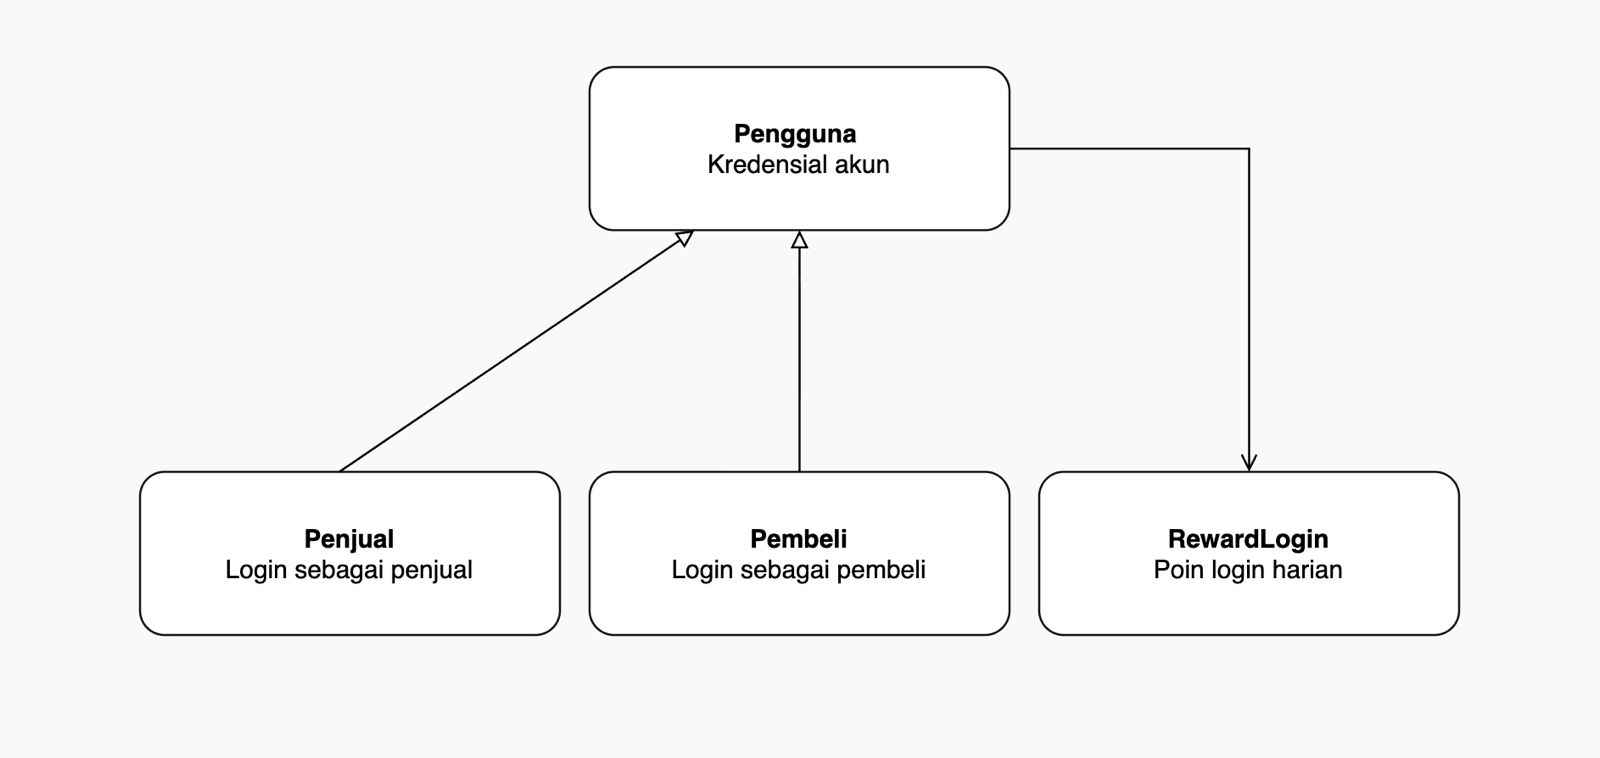
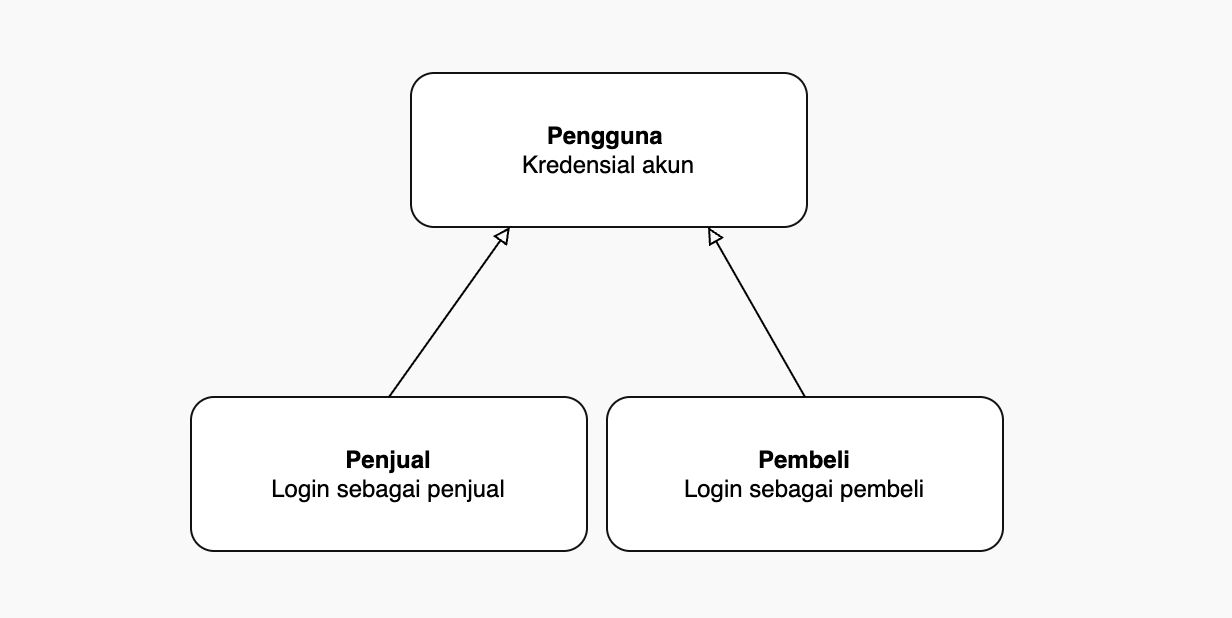
docs: update 4.2.7, 4.2.8, & 4.2.9

diff --git a/docs/M4/K02_G06_CD.md b/docs/M4/K02_G06_CD.md
@@ -64,7 +64,7 @@ Tabel 2.1. Daftar Kebutuhan Fungsional
 | *KF03* | *R04* | *Ketika pengguna memasukkan ketentuan penyaringan yang diinginkan, perangkat lunak akan menyaring listing yang ada sesuai ketentuan tersebut, lalu menampilkan hasil penyaringan kepada pengguna.* |
 | *KF04* | *R05* | *Saat pengguna melanjutkan ke tahap pembayaran, perangkat lunak akan menampilkan halaman pembayaran berisi kode QRIS dummy sebagai simulasi metode pembayaran.* |
 | *KF05* | *R07* | *Ketika pengguna melakukan perubahan pada listing (stok, harga, deskripsi) melalui fitur edit dan menyimpannya, perangkat lunak akan menyimpan perubahan tersebut ke dalam database.* |
-| *KF06* | *R10* | *Ketika pengguna melakukan login untuk pertama kalinya pada hari tersebut, perangkat lunak akan mendeteksi login harian, memberikan poin quest secara otomatis, dan menyimpan progres reward yang dimiliki pengguna.* |
+| *KF06* | *R10* | *Ketika pembeli melakukan login untuk pertama kalinya pada hari tersebut, perangkat lunak akan mendeteksi login harian, memberikan poin quest secara otomatis, dan menyimpan progres reward yang dimiliki pengguna.* |
 | *KF07* | *R14* | *Jika terjadi kesalahan pada sistem, maka perangkat lunak akan menampilkan pesan error yang informasional kepada pengguna, contohnya "Email atau password salah" apabila kredensial yang dimasukkan tidak sesuai.* |
 
 
@@ -476,7 +476,6 @@ Pada diagram kelas, cukup tampilkan nama kelas saja. Atribut dan metode/operasi 
 | *C01* | *Pengguna* | *Menyimpan kredensial akun dan memvalidasi proses login* |
 | *C02* | *Penjual* | *Peran khusus Pengguna yang login sebagai penjual* |
 | *C03* | *Pembeli* | *Peran khusus Pengguna yang login sebagai pembeli* |
-| *C07* | *RewardLogin* | *Mencatat pemberian poin quest saat login pertama pengguna pada hari itu* |
 
 #### Diagram Kelas
 
@@ -491,7 +490,6 @@ Pada diagram kelas, cukup tampilkan nama kelas saja. Atribut dan metode/operasi 
 | ID Kelas | Nama Kelas | Atribut | Metode/Operasi |
 | :--- | :--- | :--- | :--- |
 | *C01* | *Pengguna* | *idPengguna, email, password* | *login(), validasiKredensial()* |
-| *C07* | *RewardLogin* | *idReward, poinTerkumpul, tanggalLoginTerakhir* | *tambahItem(), checkout()* |
 
 ### 4.2.8 Use Case UC08
 
@@ -502,7 +500,7 @@ Pada diagram kelas, cukup tampilkan nama kelas saja. Atribut dan metode/operasi 
 | ID Kelas | Nama Kelas | Deskripsi Kelas |
 | :--- | :--- | :--- |
 | *C03* | *Pembeli* | *Melakukan klaim reward atas poin yang telah terkumpul* |
-| *C07* | *RewardLogin* | *Menyimpan progres poin, memvalidasi kecukupan poin, dan memproses klaim* |
+| *C07* | *RewardLogin* | *Menyimpan progres poin, memvalidasi kecukupan poin, dan memproses klaim reward* |
 
 #### Diagram Kelas
 
@@ -517,7 +515,7 @@ Pada diagram kelas, cukup tampilkan nama kelas saja. Atribut dan metode/operasi 
 | ID Kelas | Nama Kelas | Atribut | Metode/Operasi |
 | :--- | :--- | :--- | :--- |
 | *C03* | *Pembeli* | *idPembeli, nama* | *klaimReward()* |
-| *C07* | *RewardLogin* | *idReward, poinTerkumpul, statusKlaim* | *validasiPoin(), prosesKlaim()* |
+| *C07* | *RewardLogin* | *idReward, poinTerkumpul, statusKlaim* | *validasiPoin(), prosesKlaim(), konfirmasiKlaim()* |
 
 ### 4.2.9 Use Case UC09
 
@@ -528,7 +526,7 @@ Pada diagram kelas, cukup tampilkan nama kelas saja. Atribut dan metode/operasi 
 | ID Kelas | Nama Kelas | Deskripsi Kelas |
 | :--- | :--- | :--- |
 | *C02* | *Penjual* | *Memilih listing miliknya dan mengonfirmasi penghapusan* |
-| *C04* | *ListingMakanan* | *Direpresentasikan sebagai data listing yang dihapus dari basis data* |
+| *C04* | *ListingMakanan* | *Direpresentasikan sebagai data listing yang dihapus dari database* |
 
 #### Diagram Kelas
 
